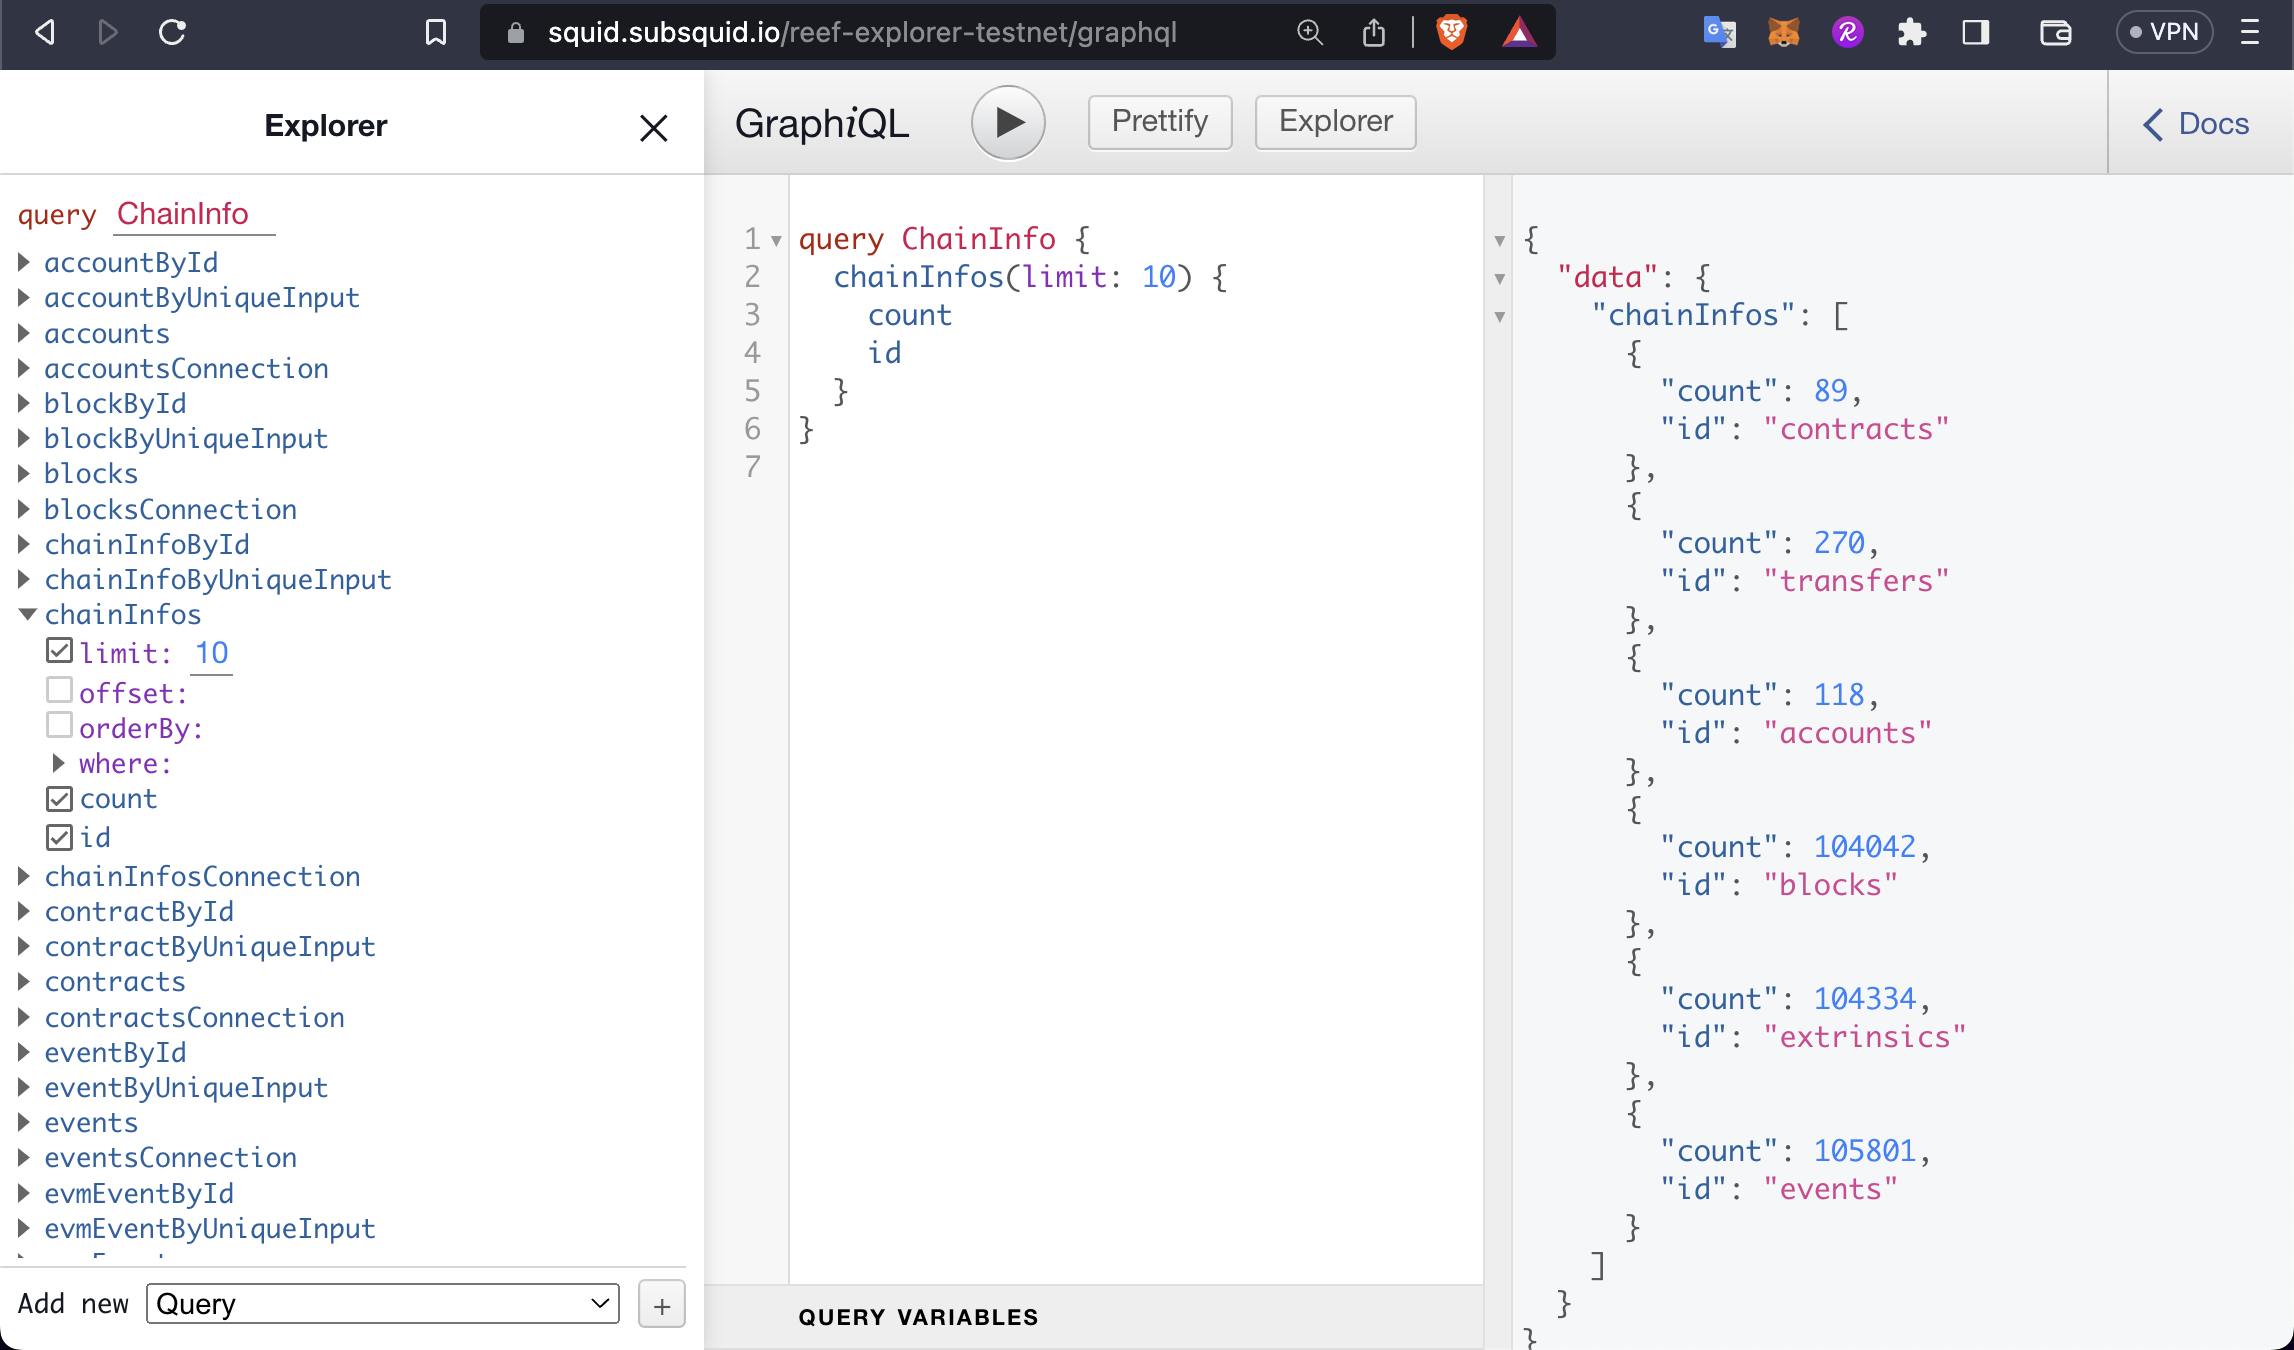
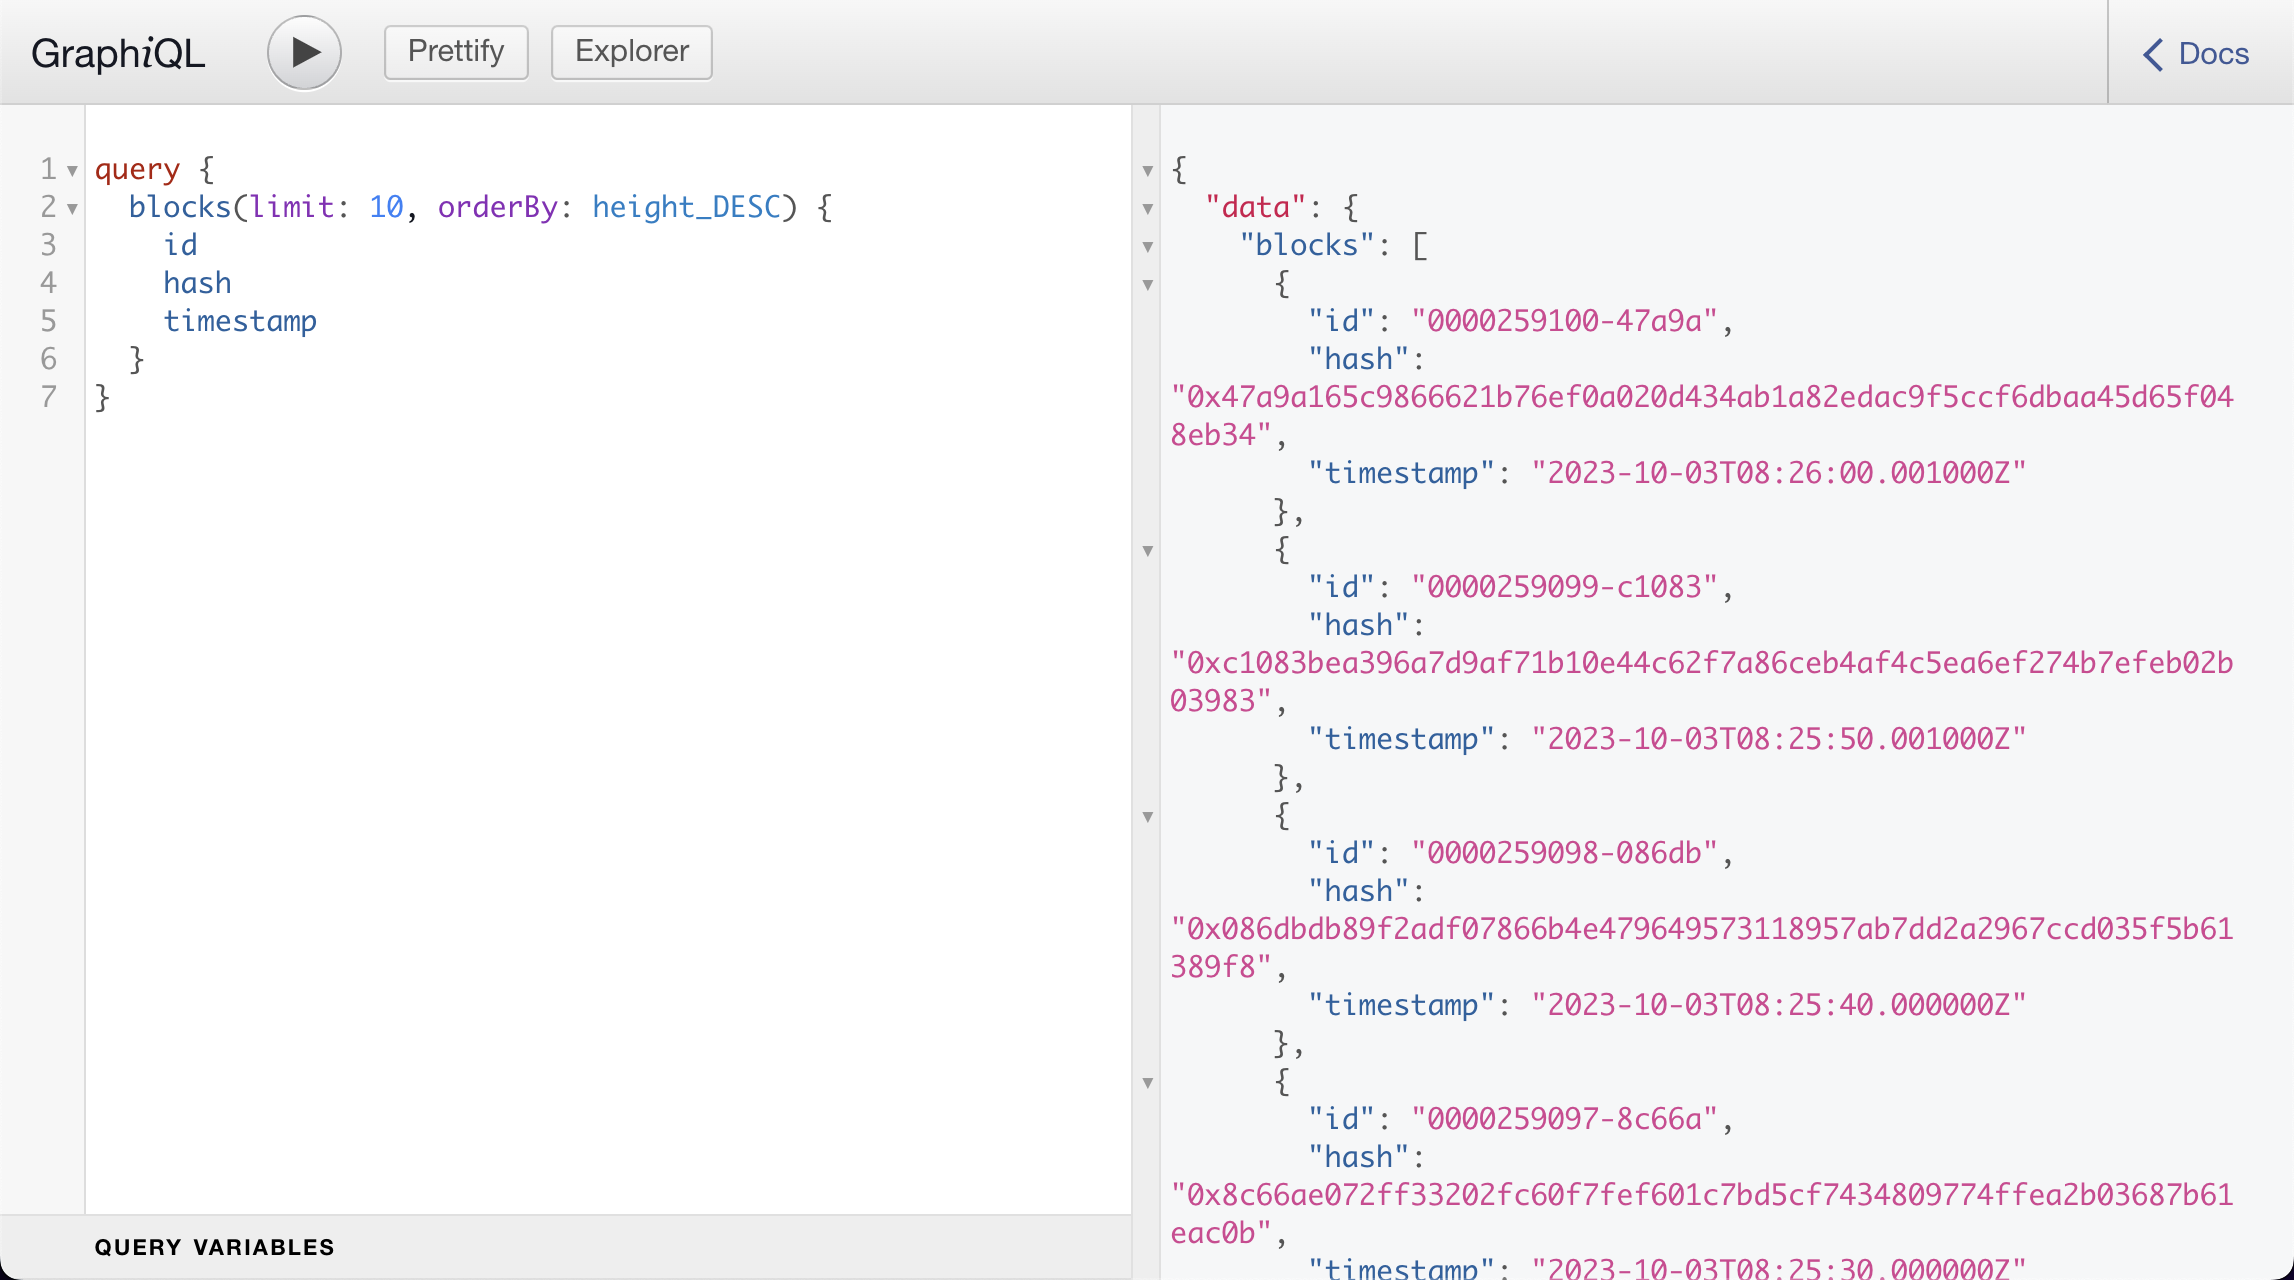
fix: image files

diff --git a/content/docs/developers/reefscan.md b/content/docs/developers/reefscan.md
@@ -22,7 +22,7 @@ blockchain RPC, for example:
  - history of user's interaction with a smart contract
 
 
-Reefscan offers 3 solutions for various use cases:
+Reefscan offers the following solutions for various use cases:
  - GraphQL server for web apps
  - Smart contract source verification
  - HTTP API for developers
@@ -38,10 +38,13 @@ Testnet: https://squid.subsquid.io/reef-explorer-testnet/graphql
 ```
 The URIs provides a GraphQL Playground interface for testing queries aswell.
 
-![](/docs/developers/the_graph.png)
+![](/docs/developers/subsquid_playground.png)
 
 #### Examples
 The GraphQL endpoints support `Query` operations. For custom deployment `Subscription` and `Mutation` can be used. Here we will discuss examples of each of these. You can see the schema for each of these by going into corresponding docs on the top right side of Graphql playground.
+
+<img src="/docs/developers/subsquid_gql_schema.png" alt="Image Alt Text" width="250"/>
+
 
 ##### Query
 A Query is a specific request allowing user to specify structure & shape of the response they want to receive.
